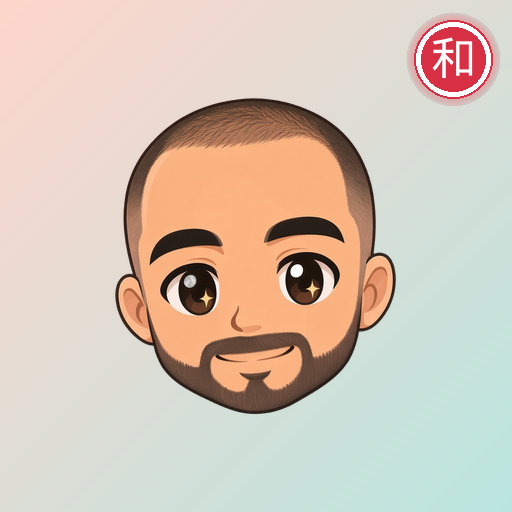
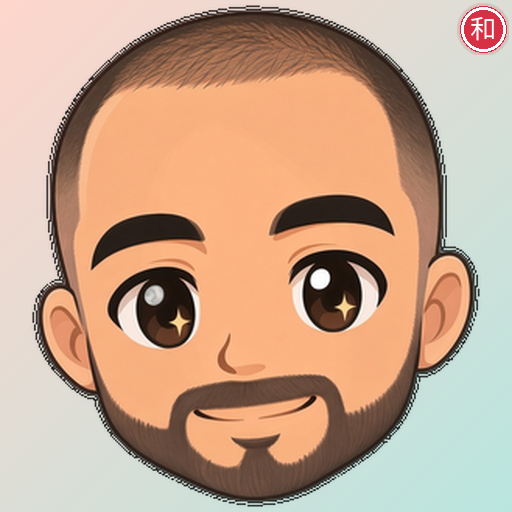
Enlarge face mascot to sit just inside the edges (#84)
Scale the homepage corner head up so it nearly fills the badge with only
a thin margin, without clipping hair or chin. Bump cache to 20261016p.

diff --git a/index.html b/index.html
@@ -14,9 +14,9 @@
 <meta name="application-name" content="トムさん">
 <meta http-equiv="Cache-Control" content="no-cache, no-store, must-revalidate">
 <meta http-equiv="Pragma" content="no-cache">
-<link rel="apple-touch-icon" href="apple-touch-icon.png?v=20261016o">
-<link rel="icon" type="image/png" sizes="192x192" href="icon-192.png?v=20261016o">
-<link rel="manifest" href="site.webmanifest?v=20261016o">
+<link rel="apple-touch-icon" href="apple-touch-icon.png?v=20261016p">
+<link rel="icon" type="image/png" sizes="192x192" href="icon-192.png?v=20261016p">
+<link rel="manifest" href="site.webmanifest?v=20261016p">
 <link rel="preconnect" href="https://fonts.googleapis.com">
 <link rel="preconnect" href="https://fonts.gstatic.com" crossorigin>
 <link href="https://fonts.googleapis.com/css2?family=M+PLUS+Rounded+1c:wght@400;500;700&family=Outfit:wght@400;500;600;700&display=swap" rel="stylesheet">
@@ -24,7 +24,7 @@
 <script>
 /* Bump __BUILD__ whenever study pages need a fresh fetch. Rewrites ?v= on
    every load so Safari and home-screen shells do not keep a stale copy. */
-window.__BUILD__ = "20261016o";
+window.__BUILD__ = "20261016p";
 (function () {
   try {
     var u = new URL(location.href);
@@ -131,7 +131,7 @@ function staticContinueGuest() {
   if (typeof route === "function" && typeof LESSONS !== "undefined") {
     try { route(); return; } catch (e) {}
   }
-  var v = window.__BUILD__ || "20261016o";
+  var v = window.__BUILD__ || "20261016p";
   var url = "https://trivituso81.github.io/japanese/index.html?v=" + encodeURIComponent(v)
     + "&guest=1&r=" + Date.now() + "#/";
   try { location.replace(url); }
@@ -140,7 +140,7 @@ function staticContinueGuest() {
 
 function staticSignIn() {
   location.assign("https://trivituso81.github.io/japanese/signin.html?v="
-    + encodeURIComponent(window.__BUILD__ || "20261016o"));
+    + encodeURIComponent(window.__BUILD__ || "20261016p"));
 }
 
 function staticRestoreFromText() {
@@ -153,7 +153,7 @@ function staticRestoreFromText() {
     localStorage.setItem("mnn-study-v1", raw);
     localStorage.setItem("mnn-study-v1:guest", "1");
     location.replace("https://trivituso81.github.io/japanese/index.html?v="
-      + encodeURIComponent(window.__BUILD__ || "20261016o") + "&r=" + Date.now() + "#/");
+      + encodeURIComponent(window.__BUILD__ || "20261016p") + "&r=" + Date.now() + "#/");
   } catch (e) {
     alert((e && e.message) || "Could not restore.");
   }
@@ -3193,10 +3193,10 @@ document.addEventListener("DOMContentLoaded", function () {
     <path d="M64 15 A38 38 0 1 0 88 56" />
   </svg>
   <div class="masthead-inner">
-    <img class="mascot" src="mascot.png?v=20261016o" alt="" width="80" height="80"
+    <img class="mascot" src="mascot.png?v=20261016p" alt="" width="80" height="80"
       decoding="async" aria-hidden="true">
     <h1>トムさんの勉強ガイド <span class="jp" id="masthead-jp">みんなの日本語</span></h1>
-    <a class="back-home" href="https://trivituso81.github.io/japanese/?v=20261016o#/" id="backHome">
+    <a class="back-home" href="https://trivituso81.github.io/japanese/?v=20261016p#/" id="backHome">
       <span class="bh-arrow" aria-hidden="true">←</span>
       <span class="bh-ico" aria-hidden="true"><svg viewBox="0 0 24 24" fill="none" stroke="currentColor" stroke-width="1.8" stroke-linecap="round" stroke-linejoin="round"><path d="M4 10.5 12 4l8 6.5V20a1 1 0 0 1-1 1h-5v-6H10v6H5a1 1 0 0 1-1-1v-9.5z"/></svg></span>
       Back home
@@ -3216,7 +3216,7 @@ document.addEventListener("DOMContentLoaded", function () {
 <!-- Static welcome: if this device already has progress, Copy is the main action. -->
 <main id="view">
   <section class="welcome-gate">
-    <img class="welcome-mascot" src="mascot.png?v=20261016o" alt="" width="96" height="96" decoding="async">
+    <img class="welcome-mascot" src="mascot.png?v=20261016p" alt="" width="96" height="96" decoding="async">
     <h2>トムさんの勉強ガイド<br>へようこそ</h2>
     <p class="welcome-lead" id="staticProgressHint" hidden>
       This device already has your study progress. Do <b>not</b> need “Continue”.
@@ -3311,7 +3311,7 @@ document.addEventListener("DOMContentLoaded", function () {
 
 <!-- App first. Firebase loads later in the background so a slow/blocked
      CDN cannot leave this page stuck on the static welcome forever. -->
-<script src="firebase-config.js?v=20261016o"></script>
+<script src="firebase-config.js?v=20261016p"></script>
 <script>
 /* ============================================================
    State
@@ -3683,7 +3683,7 @@ function renderWelcomeLanding() {
   document.body.dataset.view = "dash";
   document.getElementById("view").innerHTML = `
     <section class="welcome-gate">
-      <img class="welcome-mascot" src="mascot.png?v=20261016o" alt="" width="96" height="96" decoding="async">
+      <img class="welcome-mascot" src="mascot.png?v=20261016p" alt="" width="96" height="96" decoding="async">
       <h2>トムさんの勉強ガイド<br>へようこそ</h2>
       <p class="welcome-lead">みんなの日本語 — flashcards, grammar drills, verbs and kanji.<br>
         Sign in to sync across devices. Already studying on this phone?
@@ -4198,7 +4198,7 @@ function signInGoogle() {
   if (mobile) {
     const st = document.getElementById("cloudStatus");
     if (st) st.textContent = "Opening Google sign-in…";
-    location.assign("signin.html?v=" + encodeURIComponent(window.__BUILD__ || "20261016o"));
+    location.assign("signin.html?v=" + encodeURIComponent(window.__BUILD__ || "20261016p"));
     return;
   }
   const start = () => {
@@ -4212,7 +4212,7 @@ function signInGoogle() {
     provider.setCustomParameters({ prompt: "select_account" });
     cloudAuth.signInWithPopup(provider).catch(e => {
       if (e && e.code === "auth/popup-blocked") {
-        location.assign("signin.html?v=" + encodeURIComponent(window.__BUILD__ || "20261016o"));
+        location.assign("signin.html?v=" + encodeURIComponent(window.__BUILD__ || "20261016p"));
         return;
       }
       try { localStorage.removeItem(KEY_EXPECT_AUTH); } catch (err) {}
@@ -5777,7 +5777,7 @@ function renderHome() {
     <section class="home-landing">
       <div class="home-top">
         <div class="home-brand">
-          <img class="mascot" src="mascot.png?v=20261016o" alt="" width="72" height="72"
+          <img class="mascot" src="mascot.png?v=20261016p" alt="" width="72" height="72"
             decoding="async" aria-hidden="true">
           <h1 class="brand">トムさんの勉強ガイド</h1>
         </div>
@@ -10026,7 +10026,7 @@ document.addEventListener("click", e => {
   const a = e.target.closest("#backHome");
   if (!a) return;
   e.preventDefault();
-  location.replace("https://trivituso81.github.io/japanese/?v=20261016o&r=" + Date.now() + "#/");
+  location.replace("https://trivituso81.github.io/japanese/?v=20261016p&r=" + Date.now() + "#/");
 });
 
 /* Pin the kanji typing frame to visualViewport. iOS Safari scrolls the

diff --git a/signin.html b/signin.html
@@ -53,7 +53,7 @@
   }
   [hidden] { display: none !important; }
 </style>
-<script src="firebase-config.js?v=20261016o"></script>
+<script src="firebase-config.js?v=20261016p"></script>
 <script src="https://www.gstatic.com/firebasejs/10.14.1/firebase-app-compat.js"></script>
 <script src="https://www.gstatic.com/firebasejs/10.14.1/firebase-auth-compat.js"></script>
 <script src="https://accounts.google.com/gsi/client" async defer></script>
@@ -70,12 +70,12 @@
   <button type="button" class="primary" id="continueHome" hidden>Continue</button>
   <button type="button" class="link" id="tryAgain" hidden>Try again</button>
   <button type="button" class="link" id="signOutBtn" hidden>Sign out</button>
-  <a class="link" id="back" href="./index.html?v=20261016o#/">Back to study guide</a>
+  <a class="link" id="back" href="./index.html?v=20261016p#/">Back to study guide</a>
   <button type="button" class="link" id="exitBtn" hidden>Exit</button>
 </main>
 <script>
 (function () {
-  var BUILD = "20261016o";
+  var BUILD = "20261016p";
   var KEY = "mnn-study-v1";
   var KEY_JUST = KEY + ":justSignedIn";
   var KEY_EXPECT = KEY + ":expectAuth";
